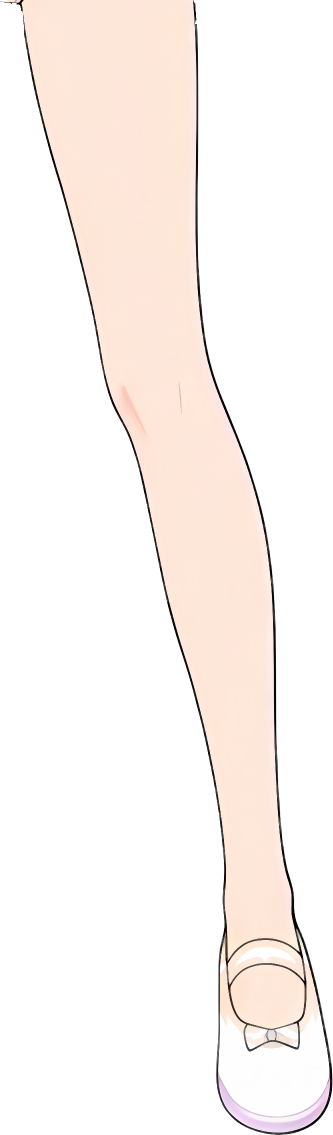
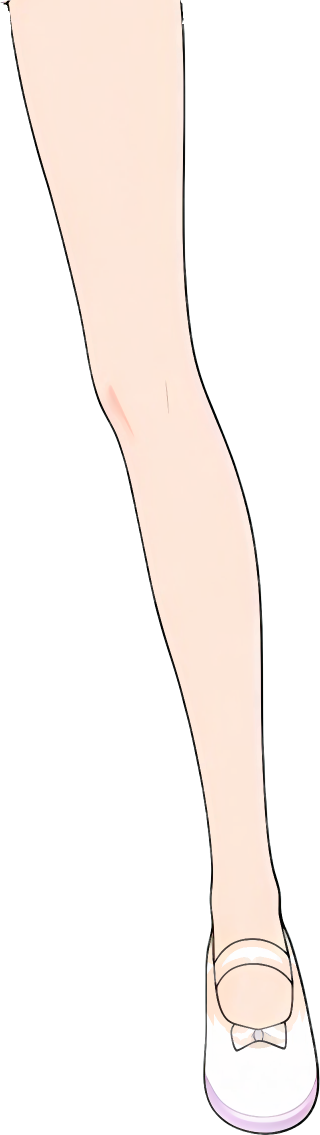
v4b demo: F pose 겨드랑이 이음새 수정 + 마법소녀 아이템(원피스/세일러 상의/튀튀 치마/요술봉/티아라) 입기·벗기

diff --git a/src/v4bdemo/main.js b/src/v4bdemo/main.js
@@ -1,5 +1,5 @@
 // v4 B안 데모: public/v4b-demo/ 의 부위 레이어(2배)를 뼈대로 그림. 저장 키는 따로(siha-v4b-demo-v1).
-import { samplePose, worldTransforms, STORAGE_KEY } from './rig.js'
+import { samplePose, worldTransforms, STORAGE_KEY, toggleItem, visibleSlots } from './rig.js'
 const BASE = import.meta.env.BASE_URL + 'v4b-demo/'
 const cv = document.getElementById('c'), g = cv.getContext('2d')
 const skel = await (await fetch(BASE + 'skeleton.json')).json()
@@ -10,13 +10,25 @@ fitCanvas(); addEventListener('resize', fitCanvas)
 const IM = {}
 await Promise.all(skel.slots.map((s) => new Promise((r) => { const i = new Image(); i.onload = () => { IM[s.name] = i; r() }; i.src = BASE + s.path })))
 let waveStart = null, FIX = null
+const ITEM_IDS = new Set((skel.items || []).map((i) => i.id))
+function loadWorn() { try { const o = JSON.parse(localStorage.getItem(STORAGE_KEY)); return Array.isArray(o?.worn) ? o.worn.filter((w) => ITEM_IDS.has(w)) : [] } catch { return [] } }
+let worn = loadWorn()
+const saveWorn = () => localStorage.setItem(STORAGE_KEY, JSON.stringify({ v: 1, worn }))
+const itemsBar = document.getElementById('items')
+function syncButtons() { if (itemsBar) for (const b of itemsBar.querySelectorAll('button')) b.setAttribute('aria-pressed', String(worn.includes(b.dataset.id))) }
+if (itemsBar) for (const it of skel.items || []) {
+  const b = document.createElement('button'); b.dataset.id = it.id; b.textContent = it.label
+  b.onclick = () => { worn = toggleItem(skel, worn, it.id); saveWorn(); syncButtons() }
+  itemsBar.appendChild(b)
+}
+syncButtons()
 function draw(now) {
   const { pose, waving } = samplePose(skel, now, waveStart)
   if (!waving && waveStart != null && now - waveStart > 0) waveStart = null
   const W = worldTransforms(skel, pose)
   g.setTransform(1, 0, 0, 1, 0, 0); g.clearRect(0, 0, cv.width, cv.height)
   g.imageSmoothingEnabled = true; g.imageSmoothingQuality = 'high'
-  for (const s of skel.slots) {
+  for (const s of visibleSlots(skel, worn)) {
     const m = W[s.bone]
     g.setTransform(m[0] * K, m[1] * K, m[2] * K, m[3] * K, (m[4] + PAD) * K, m[5] * K)
     g.drawImage(IM[s.name], s.x, s.y, s.width, s.height)
@@ -26,6 +38,7 @@ function draw(now) {
 function frame(ts) { if (!FIX) draw(ts / 1000); requestAnimationFrame(frame) }
 requestAnimationFrame(frame)
 document.getElementById('wave').onclick = () => { waveStart = performance.now() / 1000 }
-document.getElementById('reset').onclick = () => { waveStart = null; localStorage.setItem(STORAGE_KEY, JSON.stringify({ v: 1 })) }
-// 검사용(tools/v3/check_frames.mjs 와 같은 모양): outfit 은 이 데모에 없음(레오타드가 몸 그림에 포함)
-window.__v3 = window.__v4b = { skel, renderAt(now, ws = null) { FIX = true; waveStart = ws; draw(now); return cv.toDataURL('image/png') }, live() { FIX = null }, get K() { return K }, STORAGE_KEY, PAD }
+document.getElementById('reset').onclick = () => { waveStart = null; worn = []; saveWorn(); syncButtons() }
+// 검사용(tools/v3/check_frames.mjs 와 같은 모양): outfit 'basic' = 원피스+요술봉+티아라, null = 아이템 없음, 배열 = 그 아이템들, 생략 = 지금 입은 것
+const OUTFIT = { basic: ['dress', 'wand', 'tiara'] }
+window.__v3 = window.__v4b = { skel, renderAt(now, ws = null, outfit) { FIX = true; waveStart = ws; if (outfit !== undefined) worn = outfit === null ? [] : Array.isArray(outfit) ? outfit : OUTFIT[outfit] || []; draw(now); return cv.toDataURL('image/png') }, get worn() { return [...worn] }, live() { FIX = null }, get K() { return K }, STORAGE_KEY, PAD }

diff --git a/src/v4bdemo/rig.test.js b/src/v4bdemo/rig.test.js
@@ -1,6 +1,6 @@
 import { describe, it, expect } from 'vitest'
 import { readFileSync } from 'node:fs'
-import { samplePose, worldTransforms, STORAGE_KEY } from './rig.js'
+import { samplePose, worldTransforms, STORAGE_KEY, toggleItem, visibleSlots } from './rig.js'
 const skel = JSON.parse(readFileSync(new URL('../../public/v4b-demo/skeleton.json', import.meta.url)))
 describe('v4b rig', () => {
   it('저장 키가 v3·지금 앱과 다르다', () => { expect(STORAGE_KEY).toBe('siha-v4b-demo-v1') })
@@ -19,5 +19,19 @@ describe('v4b rig', () => {
     const m = worldTransforms(skel, pose)[wb]
     expect(m[0] * j.x + m[2] * j.y + m[4]).toBeCloseTo(j.x, 6)
     expect(m[1] * j.x + m[3] * j.y + m[5]).toBeCloseTo(j.y, 6)
+  })
+  it('아이템 입기/벗기: 원피스는 상의·치마와 바꿔 입고, 소품은 같이 든다', () => {
+    let w = toggleItem(skel, [], 'top'); w = toggleItem(skel, w, 'skirt'); w = toggleItem(skel, w, 'wand')
+    expect(w).toEqual(['top', 'skirt', 'wand'])
+    w = toggleItem(skel, w, 'dress'); expect(w.sort()).toEqual(['dress', 'wand'])
+    w = toggleItem(skel, w, 'dress'); expect(w).toEqual(['wand'])
+  })
+  it('아이템 슬롯은 입었을 때만 그리고, 소매는 흔드는 팔 뼈에 붙는다', () => {
+    const base = visibleSlots(skel, []); expect(base.some((s) => s.item)).toBe(false)
+    const d = visibleSlots(skel, ['dress']).filter((s) => s.item === 'dress')
+    expect(d.find((s) => s.name.endsWith('sleeve_L')).bone).toBe(skel.animations.wave.bone)
+    const ids = new Set(skel.items.map((i) => i.id)); for (const s of skel.slots) if (s.item) expect(ids.has(s.item)).toBe(true)
+    expect(skel.slots.find((s) => s.item === 'wand').bone).toBe('hand_R')
+    expect(skel.slots.find((s) => s.item === 'tiara').bone).toBe('head')
   })
 })

diff --git a/v3-demo/index.html b/v3-demo/index.html
@@ -10,6 +10,8 @@
   canvas{height:min(78vh,calc(94vw*2560/1760),924px);width:auto;aspect-ratio:1760/2560;background:#fdeef6;border-radius:16px}
   .bar{display:flex;gap:6px;justify-content:center;width:min(96vw,560px)}
   button{flex:1;font-size:16px;padding:10px 4px;border-radius:14px;border:2px solid #e9a7c8;background:#fff;color:#6e3d5b}
+  .items button{font-size:14px;padding:8px 2px}
+  button[aria-pressed=true]{background:#f9c6de;border-color:#d46a9f}
   h1{font-size:16px;margin:4px}
 </style>
 </head>
@@ -17,6 +19,7 @@
 <div id="wrap">
   <h1>시하 v4 B안 데모 · 부위 레이어 <small>(실험용)</small></h1>
   <canvas id="c" width="1760" height="2560" aria-label="시하 인형"></canvas>
+  <div class="bar items" id="items" aria-label="마법소녀 옷·소품"></div>
   <div class="bar"><button id="wave">👋 흔들기</button><button id="reset">처음대로</button></div>
 </div>
 <script type="module" src="/src/v4bdemo/main.js"></script>

diff --git a/v4b-demo/index.html b/v4b-demo/index.html
@@ -10,6 +10,8 @@
   canvas{height:min(78vh,calc(94vw*2560/1760),924px);width:auto;aspect-ratio:1760/2560;background:#fdeef6;border-radius:16px}
   .bar{display:flex;gap:6px;justify-content:center;width:min(96vw,560px)}
   button{flex:1;font-size:16px;padding:10px 4px;border-radius:14px;border:2px solid #e9a7c8;background:#fff;color:#6e3d5b}
+  .items button{font-size:14px;padding:8px 2px}
+  button[aria-pressed=true]{background:#f9c6de;border-color:#d46a9f}
   h1{font-size:16px;margin:4px}
 </style>
 </head>
@@ -17,6 +19,7 @@
 <div id="wrap">
   <h1>시하 v4 B안 데모 · 부위 레이어 <small>(실험용)</small></h1>
   <canvas id="c" width="1760" height="2560" aria-label="시하 인형"></canvas>
+  <div class="bar items" id="items" aria-label="마법소녀 옷·소품"></div>
   <div class="bar"><button id="wave">👋 흔들기</button><button id="reset">처음대로</button></div>
 </div>
 <script type="module" src="/src/v4bdemo/main.js"></script>

diff --git a/src/v4bdemo/rig.js b/src/v4bdemo/rig.js
@@ -30,3 +30,12 @@ export function worldTransforms(skel, pose) {
   }
   return out
 }
+/** 아이템 입기/벗기: 이미 입었으면 벗고, 아니면 겹치는(excl) 아이템을 벗기고 입힌다 */
+export function toggleItem(skel, worn, id) {
+  const it = (skel.items || []).find((i) => i.id === id)
+  if (!it) return [...worn]
+  if (worn.includes(id)) return worn.filter((w) => w !== id)
+  return [...worn.filter((w) => !(it.excl || []).includes(w)), id]
+}
+/** 그릴 슬롯: item 표시가 없거나 그 아이템을 입었을 때만 */
+export const visibleSlots = (skel, worn) => skel.slots.filter((s) => !s.item || worn.includes(s.item))
